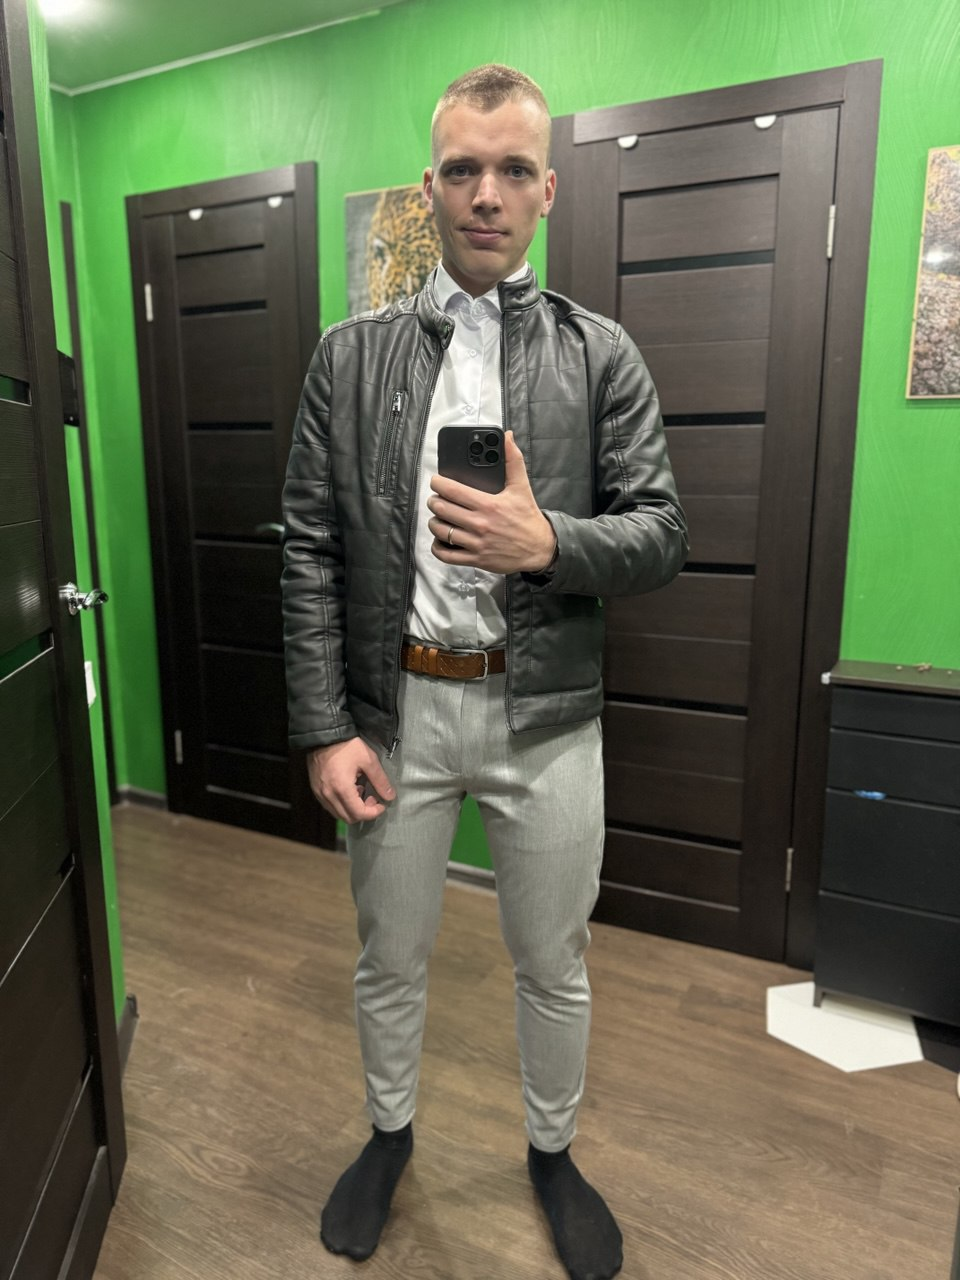
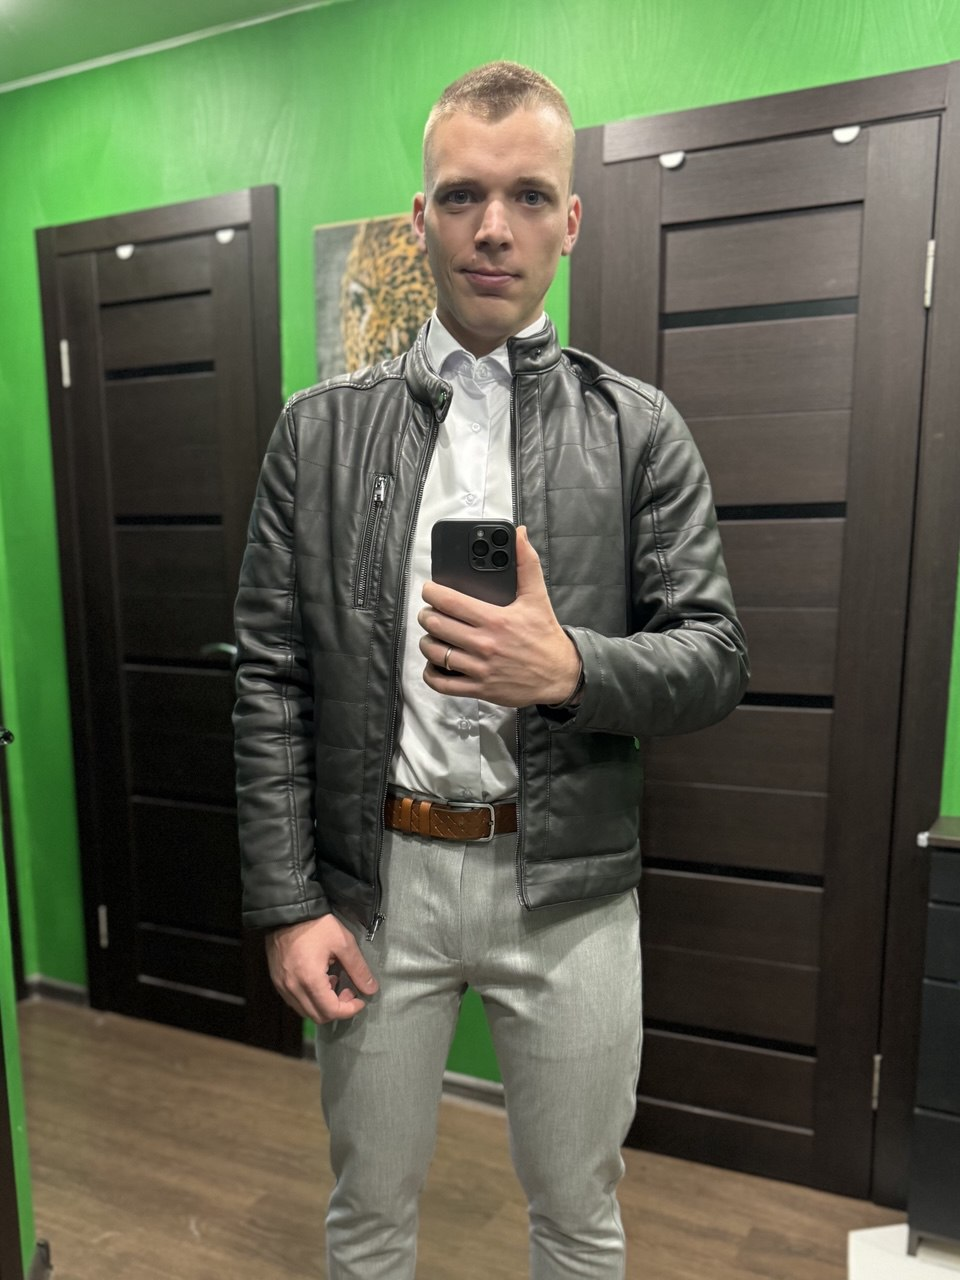
update photo

diff --git a/index.html b/index.html
@@ -71,7 +71,7 @@
 </a>
 </div>
 <div class="w-1/2 flex justify-end">
-<img src="photo1.jpg" alt="Michael Moskvichev" class="w-80 h-80 rounded-full object-cover shadow-xl">
+<img src="myPhoto.jpg" alt="Michael Moskvichev" class="w-80 h-90 rounded-full object-cover shadow-xl">
 </div>
 </div>
 <section id="about" class="bg-gray-50 py-20">
